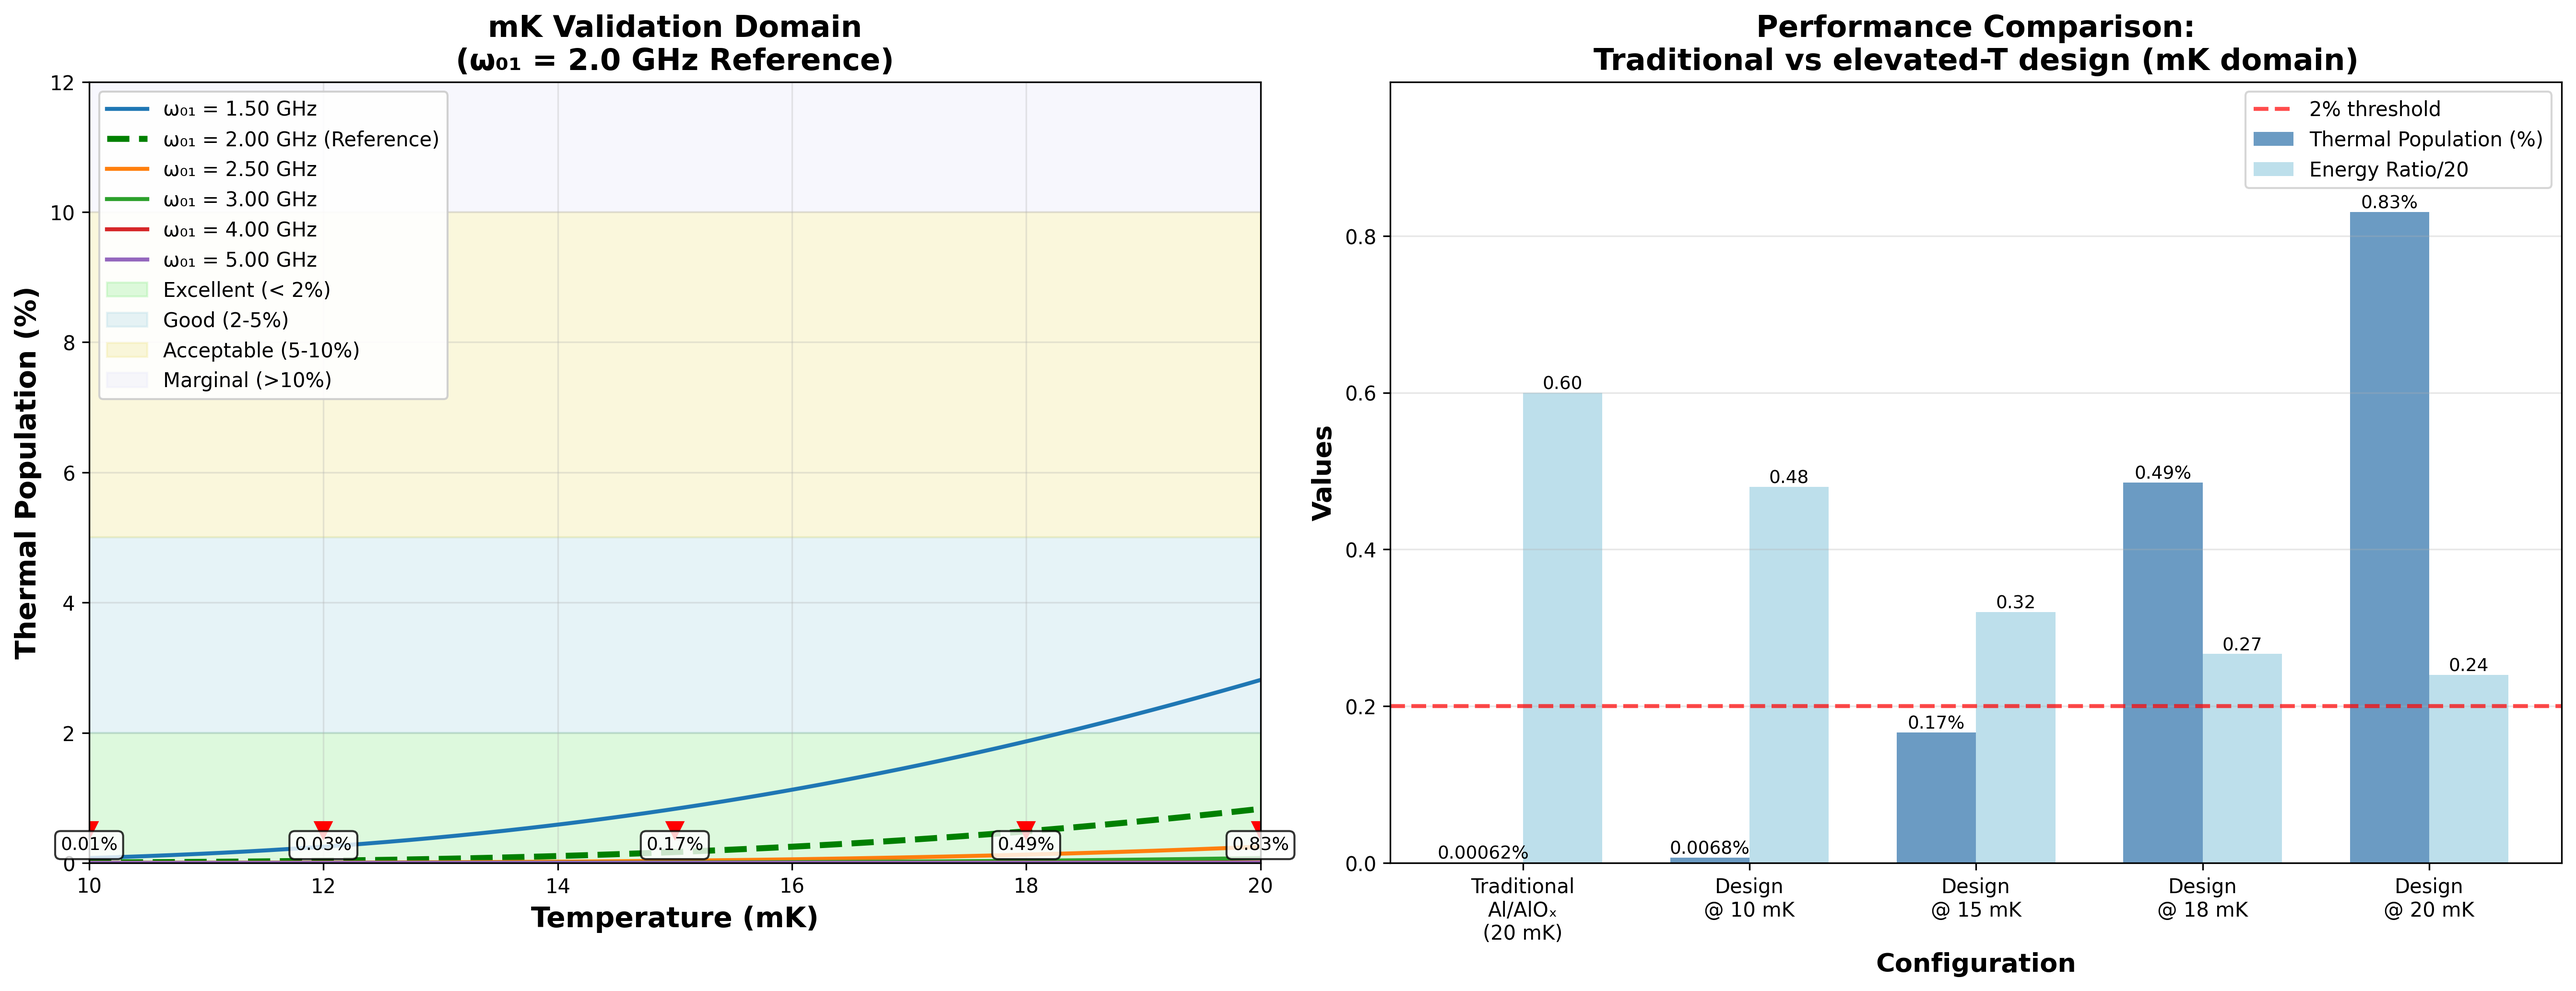
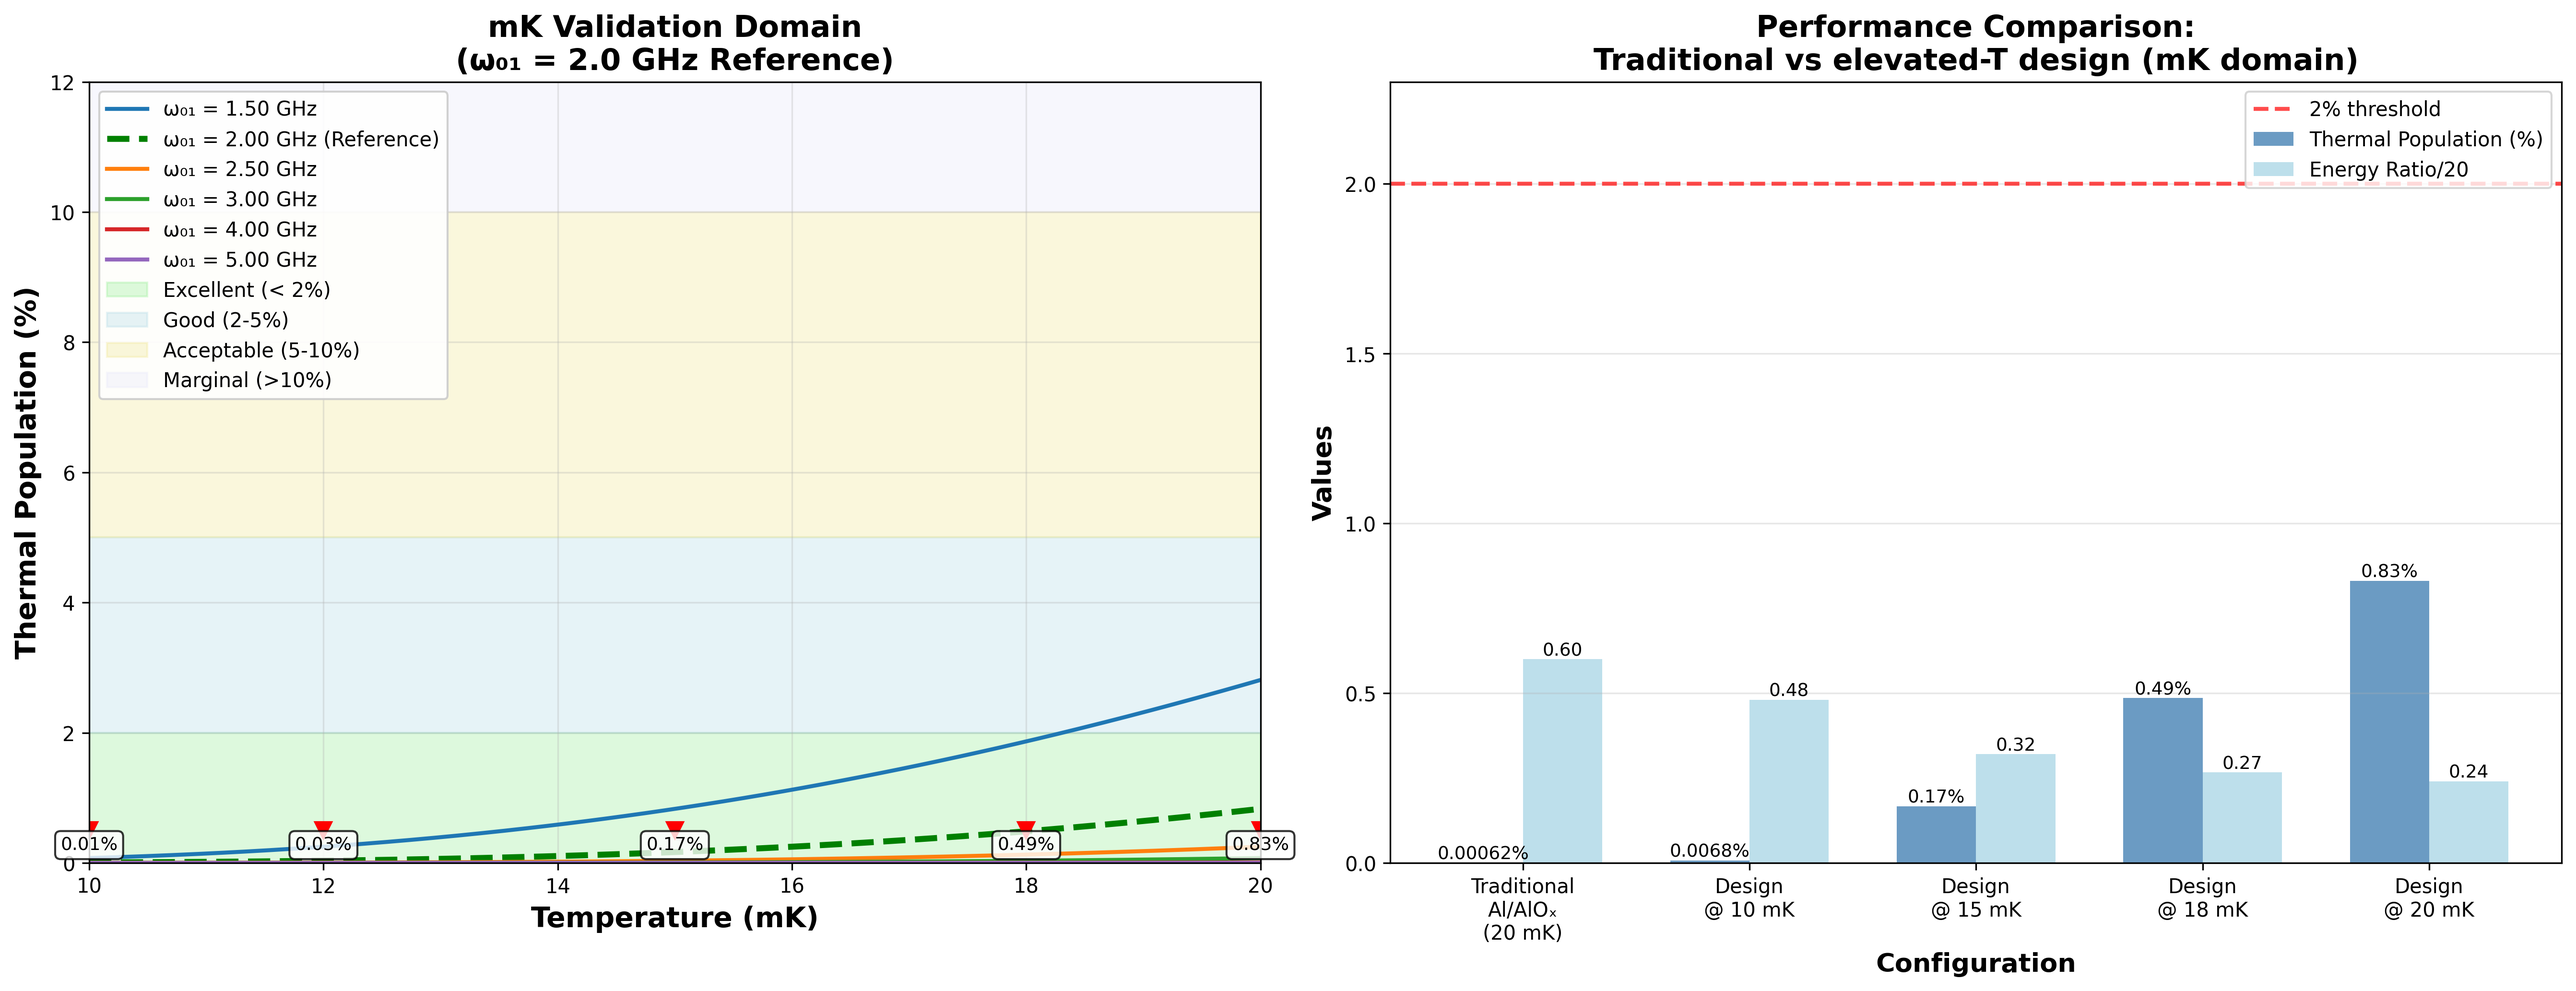
Figs 2.12-2.21 caption audit + SET1 figure numeric fixes
Captions verified panel-by-panel against native PNGs (2.12, 2.13, 2.18,
2.19, 2.21 confirmed accurate):
- Fig 2.14: 'white dashed box' -> red; framing corrected to mK
  validation domain (was 'elevated-temperature operation').
- Fig 2.15: reference curve is green dashed (not 'red dashed line');
  annotated points are 10/12/15/18/20 mK (not 10/12/14/16/20); bars are
  solid dark/light blue, not hatched.
- Figs 2.16/2.17: green marker lines are dotted, not dashed.
- Fig 2.20(a,b): fixed colour mapping (green=baseline, red=elevated-T),
  removed references to non-existent inset boxes, added tan-delta values.

SET1 figures regenerated from corrected ok_generate_set1_GHz_mK.py:
- table panel had hardcoded energy ratios off by x10 (design) and x1000
  (traditional): now 12.0 / 9.6 / 6.4 / 5.3 / 4.8; n(10 mK) 0.03 -> 0.0068%.
- 2% threshold line was drawn at y=0.2; now at y=2.0 with ylim 0-2.3.
Page flow: unchanged (187 pp, all section anchors at same pages).

Claude-Session: https://claude.ai/code/session_01DD9m6UXVTKwPczyf4WWcwE

diff --git a/chapters/quantum_hw.tex b/chapters/quantum_hw.tex
@@ -2129,7 +2129,7 @@ To fully characterise the elevated-temperature operating regime, we analyse the 
 \begin{figure}[htbp]
 \centering
 \includegraphics[width=0.95\textwidth]{chapters/qh_figures/SET1_comprehensive_analysis_GHz_mK.png}
-\caption{Comprehensive thermal population analysis for elevated-temperature operation. \textbf{(a)} Thermal population versus temperature for different qubit frequencies, showing the mK validation band (\SIrange{10}{20}{mK} shaded). \textbf{(b)} Thermal population versus qubit frequency for different temperatures, with the asymmetric-SQUID sweet-spot frequency marked at \SI{1.972}{GHz}. \textbf{(c)} Two-dimensional thermal population landscape showing contours of constant thermal excitation; the white dashed box indicates the mK validation region. \textbf{(d)} Energy ratio $\hbar\omega_{01}/(k_B T)$ versus temperature, with thresholds for good ($>10$), marginal ($>5$), and poor ($>1$) operation. \textbf{(e)} Performance comparison table showing thermal populations and energy ratios for conventional 5--6~GHz transmons versus the 1.972~GHz sweet-spot device at various temperatures. \textbf{(f)} Required minimum qubit frequency to maintain specified thermal population thresholds as a function of operating temperature, with the elevated-temperature design points overlaid.}
+\caption{Comprehensive thermal population analysis in the millikelvin validation domain (reference SQUID at its $\simeq 2$~GHz lower sweet spot). \textbf{(a)} Thermal population versus temperature for different qubit frequencies, showing the mK validation band (\SIrange{10}{20}{mK} shaded). \textbf{(b)} Thermal population versus qubit frequency for different temperatures, with the asymmetric-SQUID sweet-spot frequency (red star) marked at $\simeq 2$~GHz. \textbf{(c)} Two-dimensional thermal population landscape showing contours of constant thermal excitation; the red dashed box indicates the mK validation region. \textbf{(d)} Energy ratio $\hbar\omega_{01}/(k_B T)$ versus temperature, with thresholds for good ($>10$), marginal ($>5$), and poor ($>1$) operation. \textbf{(e)} Performance comparison table showing thermal populations and energy ratios for conventional 5--6~GHz transmons versus the 1.972~GHz sweet-spot device at various temperatures. \textbf{(f)} Required minimum qubit frequency to maintain specified thermal population thresholds as a function of operating temperature, with the elevated-temperature design points overlaid.}
 \label{fig:thermal_comprehensive}
 \end{figure}
 
@@ -2170,7 +2170,7 @@ become the limiting decoherence channel.
 \begin{figure}[htbp]
 \centering
 \includegraphics[width=0.95\textwidth]{chapters/qh_figures/SET1_operating_regime_GHz_mK.png}
-\caption{Elevated-temperature operating regime analysis. \textbf{Left:} Zoomed view of thermal population as a function of temperature for qubit frequencies near the elevated-temperature sweet spot (\SI{1.972}{GHz}, red dashed line). The shaded regions indicate performance zones: green ($< 2\%$, excellent), light-blue (2--5\%, good), and yellow (5--10\%, acceptable). Operating points at 10, 12, 14, 16, and \SI{20}{mK} are marked with values. \textbf{Right:} Bar chart comparing thermal population (solid bars) and normalised energy ratio (hatched bars) between traditional Al/AlO$_x$ transmons at \SI{20}{mK} and the elevated-temperature design at this range of temperatures. The red dashed line marks the 2\% thermal population threshold.}
+\caption{Millikelvin validation-domain operating regime analysis. \textbf{Left:} Zoomed view of thermal population as a function of temperature for qubit frequencies near the reference sweet spot (\SI{2.0}{GHz}, green dashed curve). The shaded regions indicate performance zones: green ($< 2\%$, excellent), light-blue (2--5\%, good), and yellow (5--10\%, acceptable). Operating points at 10, 12, 15, 18, and \SI{20}{mK} are marked with the corresponding thermal-population values. \textbf{Right:} Bar chart comparing thermal population (dark-blue bars) and the energy ratio $\hbar\omega_{01}/(k_B T)$ rescaled by $1/20$ (light-blue bars) between a traditional Al/AlO$_x$ transmon at \SI{20}{mK} and the reference device at 10--20~mK. The red dashed line marks the 2\% thermal population threshold, which all configurations satisfy.}
 \label{fig:thermal_heatsq}
 \end{figure}
 
@@ -2811,7 +2811,7 @@ The dominant contributions are quasiparticle tunneling (31.5\%) and TLS defects 
     \centering
     \includegraphics[width=\textwidth]{chapters/qh_figures/T1_measurement_simulation.png}
     \caption{\textbf{Numerical $T_1$ energy relaxation measurement simulations.} 
-    Three panels show master equation simulations of qubit population decay following excitation to state $|1\rangle$ at $t=0$ for different $T_1$ values: (left) $T_1 = 50$~ns, (centre) $T_1 = 100$~ns, (right) $T_1 = 200$~ns. Each simulation includes realistic measurement noise (blue dots) to emulate experimental data. The excited state population $P(|1\rangle)$ (blue) and ground state population $P(|0\rangle)$ (red) evolve complementarily, with theoretical fits (solid lines) showing exponential decay $P(|1\rangle) = \exp(-t/T_1)$. Black dashed lines indicate fitted $T_1$ values from noisy data: 49.6~ns, 99.6~ns, and 200.5~ns, respectively, demonstrating excellent agreement with input parameters. The $1/e$ point where $P(|1\rangle) = 1/e \approx 0.368$ (green dot and horizontal line) marks the characteristic energy relaxation time. Vertical green dashed lines identify this time point. These simulations validate our decoherence model and demonstrate that $T_1$ measurements can accurately extract energy relaxation rates even with realistic experimental imperfections. For our 300~GHz system at 4~K, we project $T_1 \approx 15.3$~$\mu$s based on combined contributions from Purcell decay, dielectric loss, quasiparticle tunneling, and TLS defects.}
+    Three panels show master equation simulations of qubit population decay following excitation to state $|1\rangle$ at $t=0$ for different $T_1$ values: (left) $T_1 = 50$~ns, (centre) $T_1 = 100$~ns, (right) $T_1 = 200$~ns. Each simulation includes realistic measurement noise (blue dots) to emulate experimental data. The excited state population $P(|1\rangle)$ (blue) and ground state population $P(|0\rangle)$ (red) evolve complementarily, with theoretical fits (solid lines) showing exponential decay $P(|1\rangle) = \exp(-t/T_1)$. Black dashed lines indicate fitted $T_1$ values from noisy data: 49.6~ns, 99.6~ns, and 200.5~ns, respectively, demonstrating excellent agreement with input parameters. The $1/e$ point where $P(|1\rangle) = 1/e \approx 0.368$ (green dot and horizontal line) marks the characteristic energy relaxation time. Vertical green dotted lines identify this time point. These simulations validate our decoherence model and demonstrate that $T_1$ measurements can accurately extract energy relaxation rates even with realistic experimental imperfections. For our 300~GHz system at 4~K, we project $T_1 \approx 15.3$~$\mu$s based on combined contributions from Purcell decay, dielectric loss, quasiparticle tunneling, and TLS defects.}
     \label{fig:t1_simulations}
 \end{figure}
 
@@ -2849,7 +2849,7 @@ At the flux-insensitive sweet spot the first-order flux sensitivity vanishes; th
     \textbf{Left}: Pure $T_1$ limit where $T_2 = T_1/2 = 50$~ns, showing clean oscillations (blue solid) with exponential envelope decay (red dashed) governed solely by energy relaxation. 
     \textbf{Centre}: Weak pure dephasing with $T_\phi = 200$~ns giving $T_2 = 100$~ns via $1/T_2 = 1/(2T_1) + 1/T_\phi$. The Ramsey signal exhibits faster decay than the pure $T_1$ case but slower than the envelope prediction, with visible oscillations persisting beyond 50~ns.
     \textbf{Right}: Strong pure dephasing with $T_\phi = 50$~ns yielding $T_2 = 40$~ns, showing rapid decay that significantly outpaces energy relaxation. The oscillations are heavily damped within the first 40~ns.
-    All panels include realistic measurement noise (blue dots) and show the Ramsey oscillation signal (blue line) compared to the exponential envelope $\propto \exp(-t/T_2)$ (red dashed). The vertical green dashed line marks the $T_2$ time where the envelope has decayed to $1/e$, with a green dot highlighting this characteristic point. These simulations illustrate the relationship between $T_1$, $T_\phi$, and $T_2$ given by Eq.~\ref{eq:t2_relation}. For our 300~GHz system at 4~K, we project $T_2 \approx \TTwo$~$\mu$s with $T_\phi \approx 23$~$\mu$s, indicating that pure dephasing contributes comparably to energy relaxation, giving $T_2/T_1 \approx 0.86$---a favourable ratio enabling high-fidelity quantum operations. Hahn echo sequences extend effective coherence to $T_{2,\text{echo}} \approx 26.3$~$\mu$s.}
+    All panels include realistic measurement noise (blue dots) and show the Ramsey oscillation signal (blue line) compared to the exponential envelope $\propto \exp(-t/T_2)$ (red dashed). The vertical green dotted line marks the $T_2$ time where the envelope has decayed to $1/e$, with a green dot highlighting this characteristic point. These simulations illustrate the relationship between $T_1$, $T_\phi$, and $T_2$ given by Eq.~\ref{eq:t2_relation}. For our 300~GHz system at 4~K, we project $T_2 \approx \TTwo$~$\mu$s with $T_\phi \approx 23$~$\mu$s, indicating that pure dephasing contributes comparably to energy relaxation, giving $T_2/T_1 \approx 0.86$---a favourable ratio enabling high-fidelity quantum operations. Hahn echo sequences extend effective coherence to $T_{2,\text{echo}} \approx 26.3$~$\mu$s.}
     \label{fig:t2_ramsey}
 \end{figure}
 
@@ -3528,8 +3528,8 @@ Modern pulse-tube coolers, such as the Cryomech PT420, provide 1~W of cooling po
 \centering
 \includegraphics[width=0.95\textwidth]{chapters/qh_figures/fig4_technical_challenges.png}
 \caption{\textbf{Technical Challenges and Mitigation Strategies.}
-\textbf{(a)} Loss mechanism scaling comparison between baseline (5.8 GHz, green) and elevated-temperature design (300 GHz, various colours). Dielectric loss (red) increases 52×. Radiative loss (dark red) increases catastrophically by 2675× if unshielded. Quasiparticle loss (green) remains constant—key advantage. Log scale emphasises dramatic scaling differences. The inset box highlights the critical challenge and the mitigation approach.
-\textbf{(b)} Substrate comparison at 300 GHz. Standard silicon (red) gives unacceptably short $T_1 \sim 10$ $\mu$s. High-resistivity silicon (orange) and sapphire (green) provide $T_1 > 100 \mu$s. Target (dark green) shows achievable performance with optimised materials and design. The red dashed line indicates a 30 $\mu$s minimum requirement. The green shaded region shows the acceptable range. The inset box recommends sapphire or high-$\rho$ Si.
+\textbf{(a)} Loss-mechanism scaling comparison: for each mechanism, the green bar is the baseline rate (5.8 GHz, 20 mK, normalised to 1) and the red bar the elevated-temperature design (300 GHz, 4 K). Dielectric loss ($\propto\omega$) increases 52×; unshielded radiative loss ($\propto\omega^2$) increases catastrophically by 2675×, which is why the 3D-cavity shielding of Sec.~\ref{sec:decoherence} is mandatory; quasiparticle loss remains constant—key advantage of the large-gap NbN platform. Log scale emphasises the scaling differences.
+\textbf{(b)} Substrate comparison at 300 GHz. Standard silicon (red, $\tan\delta = 10^{-6}$) gives unacceptably short $T_1 \sim 10$ $\mu$s. High-resistivity silicon (orange, $\tan\delta = 5\times10^{-8}$, $T_1 \simeq 200~\mu$s) and sapphire (green, $\tan\delta = 10^{-7}$, $T_1 \simeq 100~\mu$s) both clear the requirement, making high-$\rho$ Si or sapphire the recommended choices. Target (dark green, $\tan\delta = 10^{-8}$) shows the performance achievable with optimised materials. The red dashed line indicates the 30 $\mu$s minimum requirement.
 \textbf{(c)} Improvement pathways at fixed $300$~GHz / $4$~K. The current CNOT fidelity (orange, $\FCNOT\%$) lies $0.10$ percentage points below the $98\%$ reference threshold (green dashed line). Reducing the soft contributions raises the fidelity toward the thermal-limited ceiling: improved substrate coherence ($98.20\%$) and pulse optimisation ($98.25\%$) each cross the threshold, and the ceiling $F_{\mathrm{ceiling}}=100\%-\varepsilon_{\mathrm{thermal}}=\Fceiling\%$ (dark green) is the best attainable at this operating point. The thermal term is not reduced: the operating temperature is held at the cryocooler-compatible $4$~K by design.}
 \label{fig:challenges}
 \end{figure}
